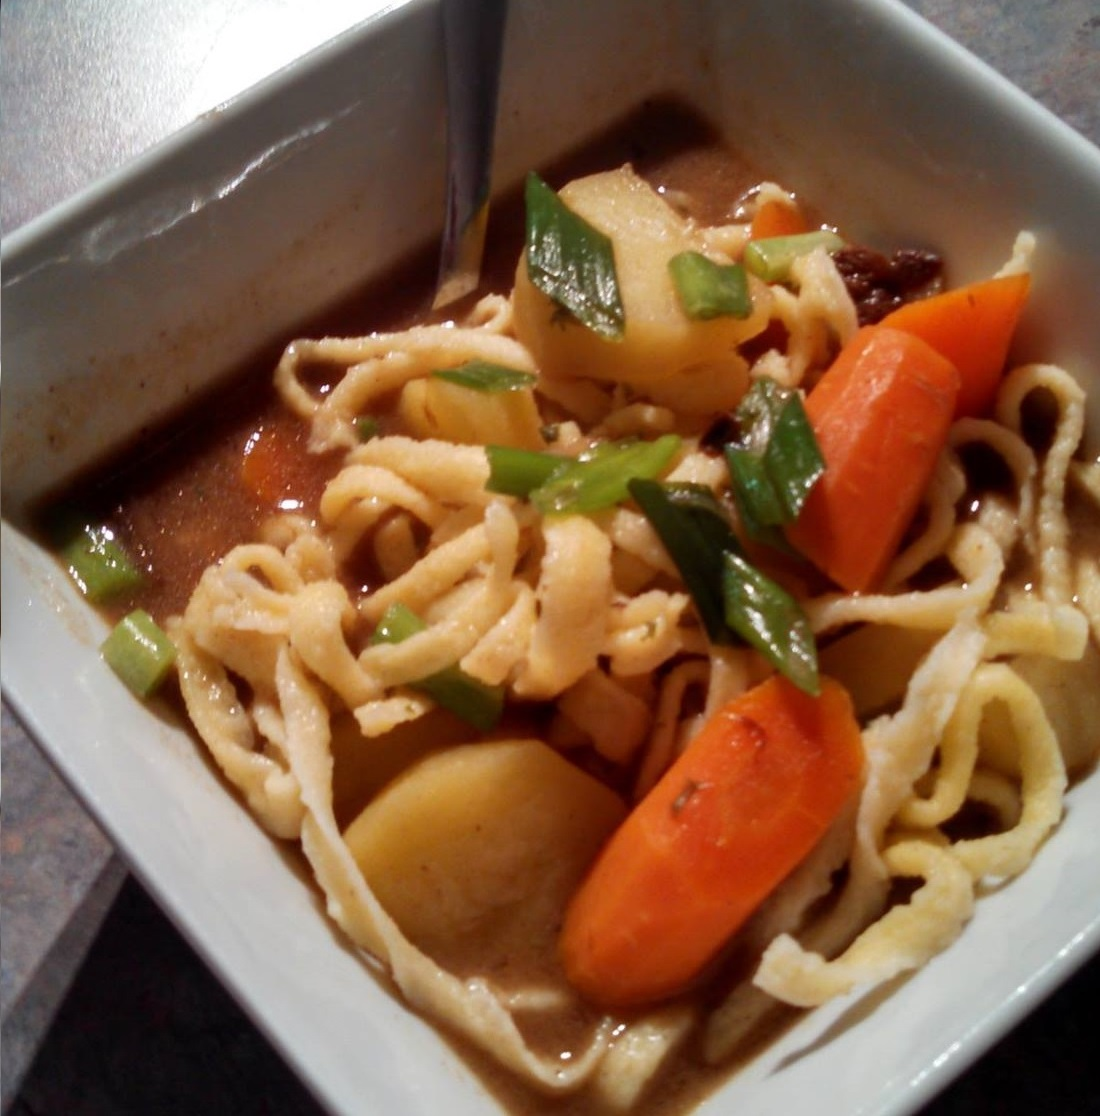
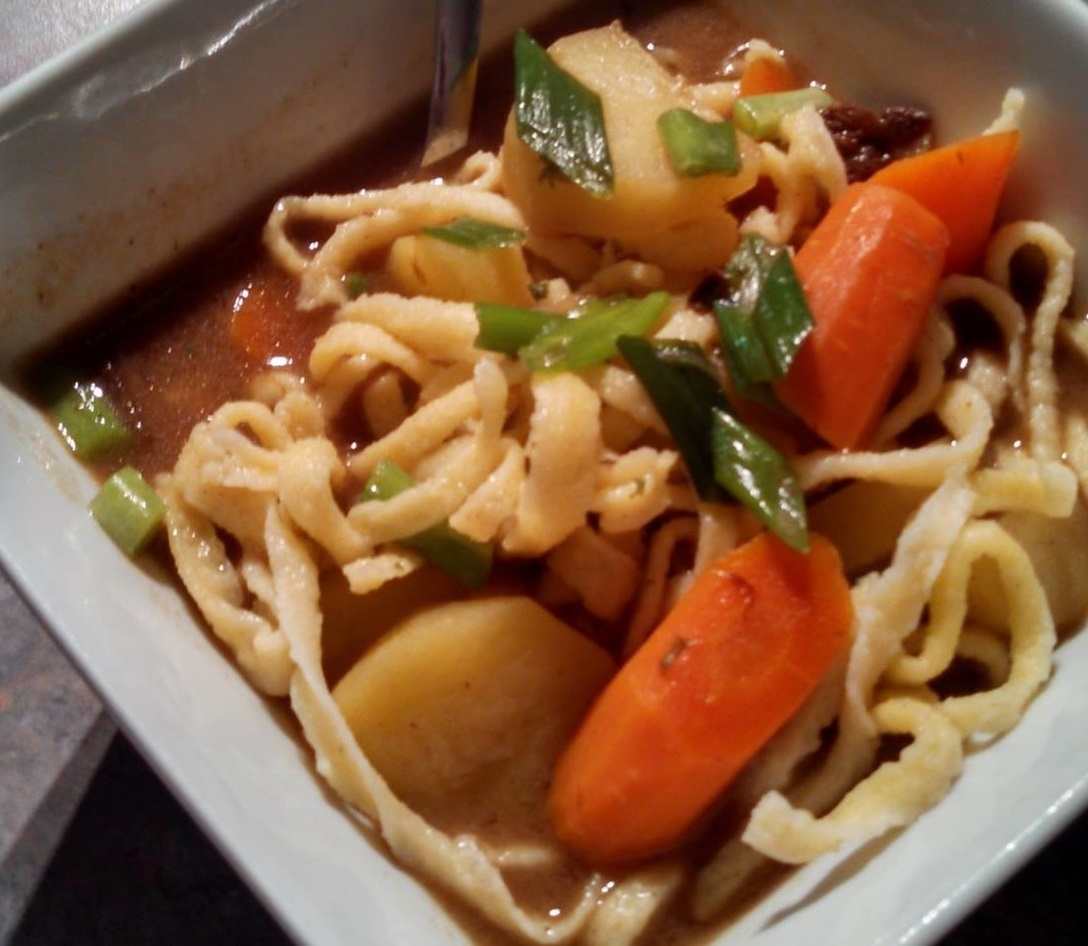
Bilder wurden noch mals überarbeitet Koch wurde an Bilder angepasst

diff --git a/02_Beilagen_Spätzle.html b/02_Beilagen_Spätzle.html
@@ -100,10 +100,12 @@
         </ul>
         <div class="head row mittig">
             <div class="rahmen">
-            <div><img src="pic/IMG_Kaesspaetzle.jpg" width="680" height="280" class="img-fluid" alt="..."></div>
+            <div><img src="pic/" width="680" height="280" class="img-fluid" alt="..."></div>
         </div>
         <div class="seite col-1">
             <div class="ma">
+                <br>
+                <br>
                 <br>
                 <br>
                 <br>

diff --git a/03_Hauptgericht_Rouladen.html b/03_Hauptgericht_Rouladen.html
@@ -107,10 +107,6 @@
                 <br>
                 <br>
                 <br>
-                <br>
-                <br>
-                <br>
-                <br>
                 <div><img src="pic/Koch_Zubereitung.jpg" width="680" height="280" class="img-fluid" alt="..."></div>
             </div>
         </div>

diff --git a/05_Kuchen_Käsekuchen (ohne Boden).html b/05_Kuchen_Käsekuchen (ohne Boden).html
@@ -107,10 +107,6 @@
                 <br>
                 <br>
                 <br>
-                <br>
-                <br>
-                <br>
-                <br>
                 <div><img src="pic/Koch_Kuchen.jpg" width="680" height="280" class="img-fluid" alt="..."></div>
             </div>
         </div>

diff --git a/05_Kuchen_Träubleskuchen.html b/05_Kuchen_Träubleskuchen.html
@@ -108,9 +108,6 @@
                 <br>
                 <br>
                 <br>
-                <br>
-                <br>
-                <br>
                 <div><img src="pic/Koch_Kuchen.jpg" width="680" height="280" class="img-fluid" alt="..."></div>
             </div>
         </div>

diff --git a/01_Suppen_Kartoffelsuppe.html b/01_Suppen_Kartoffelsuppe.html
@@ -111,6 +111,8 @@
                 <br>
                 <br>
                 <br>
+                <br>
+                <br>
                 <div><img src="pic/Koch_Topf.jpg" width="680" height="280" class="img-fluid" alt="..."></div>
             </div>
         </div>

diff --git a/04_Desserts_Reissahne mit Früchten.html b/04_Desserts_Reissahne mit Früchten.html
@@ -111,6 +111,10 @@
           <br>
           <br>
           <br>
+          <br>
+          <br>
+          <br>
+          <br>
           <div><img src="pic/Koch_Kuchen.jpg" width="680" height="280" class="img-fluid" alt="..."></div>
       </div>
     </div>

diff --git a/05_Kuchen_Spritzgebäck.html b/05_Kuchen_Spritzgebäck.html
@@ -110,7 +110,6 @@
                 <br>
                 <br>
                 <br>
-                <br>
                 <div><img src="pic/Koch_Kuchen.jpg" width="680" height="280" class="img-fluid" alt="..."></div>
             </div>
         </div>

diff --git a/04_Desserts_Pfitzauf.html b/04_Desserts_Pfitzauf.html
@@ -111,6 +111,9 @@
           <br>
           <br>
           <br>
+          <br>
+          <br>
+          <br>
           <div><img src="pic/Koch_Kuchen.jpg" width="680" height="280" class="img-fluid" alt="..."></div>
       </div>
     </div>
